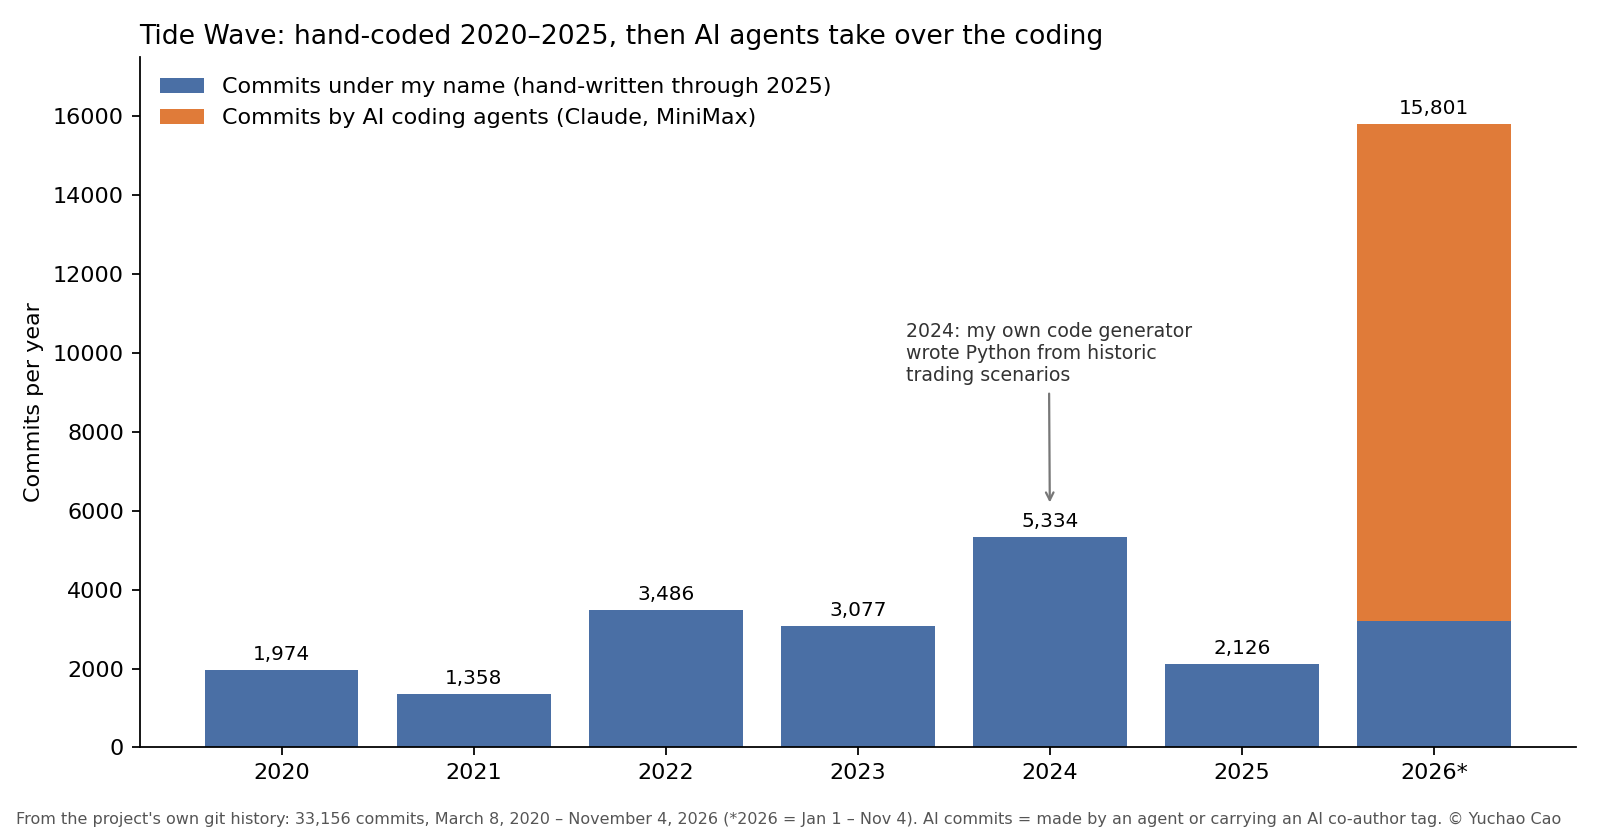
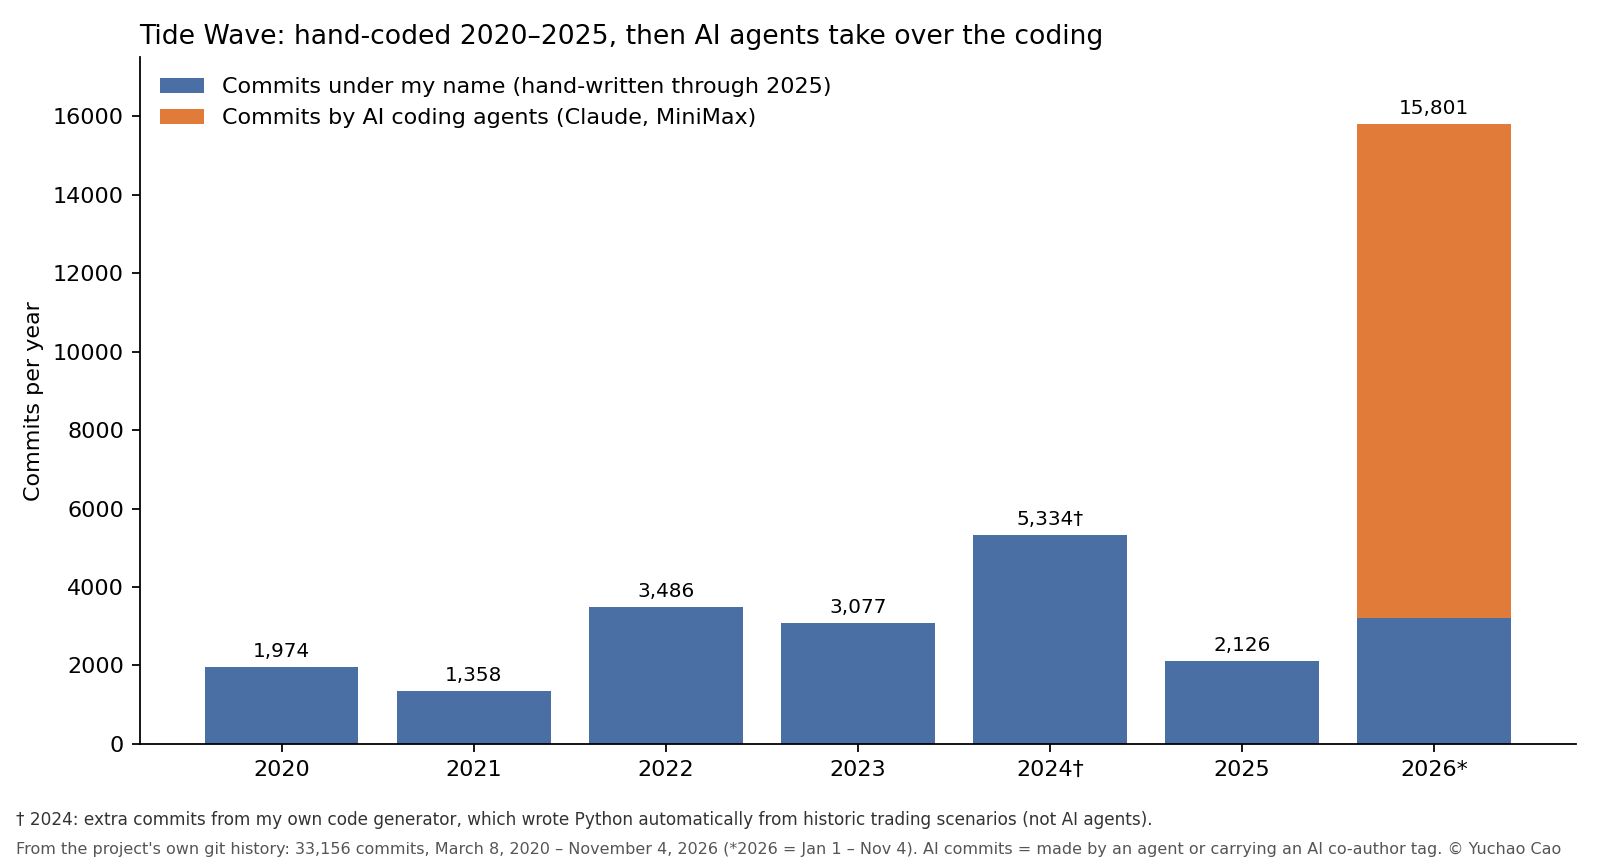
History chart: footnote the 2024 code-generator commits

diff --git a/foundry/index.html b/foundry/index.html
@@ -683,6 +683,7 @@ footer { color: var(--muted); font-size: 0.9rem; border-top: 1px solid var(--lin
     <p class="eyebrow">History and hardware</p>
     <h2 id="h-history">Hand-coded for six years, then the agents took over</h2>
     <p>I wrote the project by hand from March 2020, and in 2024 built my own generator that wrote Python from historic trading scenarios. From January 2026 AI coding agents made most of the commits, and by October 2026 more than 80% of them. The whole farm runs on 12 Mac minis on one shelf at home. Numbers measured November 4, 2026, and still growing.</p>
+    <p style="font-size:0.9em;color:#555">† 2024 has extra commits from my own code generator, which wrote Python automatically from historic trading scenarios - an experiment before the AI agents.</p>
     <p><img src="commits_by_year.png" alt="Commits per year: hand-coded 2020 to 2025, AI agents from 2026" style="width:100%;height:auto"></p>
     <p><img src="machine_farm_photo.jpg" alt="The Foundry build farm: 12 Mac minis on one shelf" style="width:100%;height:auto"></p>
   </div>

diff --git a/README.md b/README.md
@@ -134,9 +134,12 @@ records the whole shift:
 | 2021 | 1,358 | 0 |
 | 2022 | 3,486 | 0 |
 | 2023 | 3,077 | 0 |
-| 2024 | 5,334 (many written by my own code generator from historic trading scenarios) | 0 |
+| 2024 | 5,334 † | 0 |
 | 2025 | 2,119 | 7 |
 | 2026 (to November 4) | 3,200 | 12,601 |
+
+† 2024 has extra commits from my own code generator, which wrote Python automatically from historic trading
+scenarios - an experiment before the AI agents, not AI-written code.
 
 My role changed with it: from writing the code to designing the system, setting the rules and reviewing the
 agents' work - the same move I made at Microsoft from developer to engineering manager.
